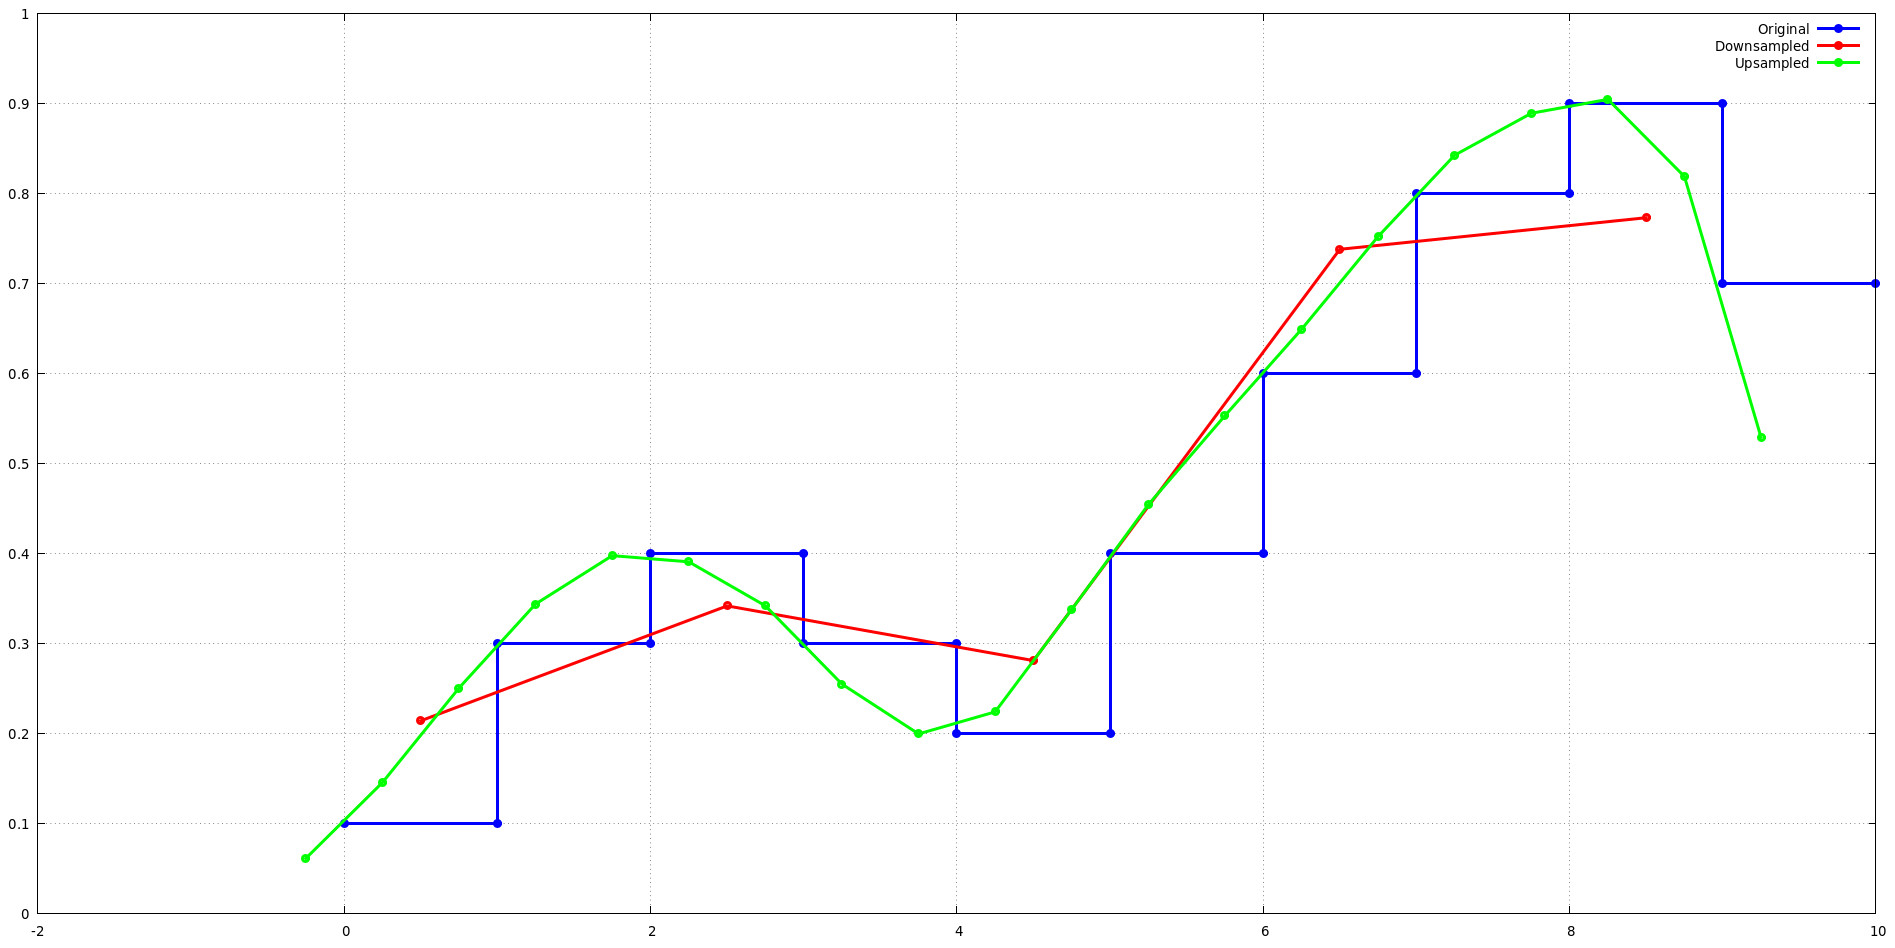
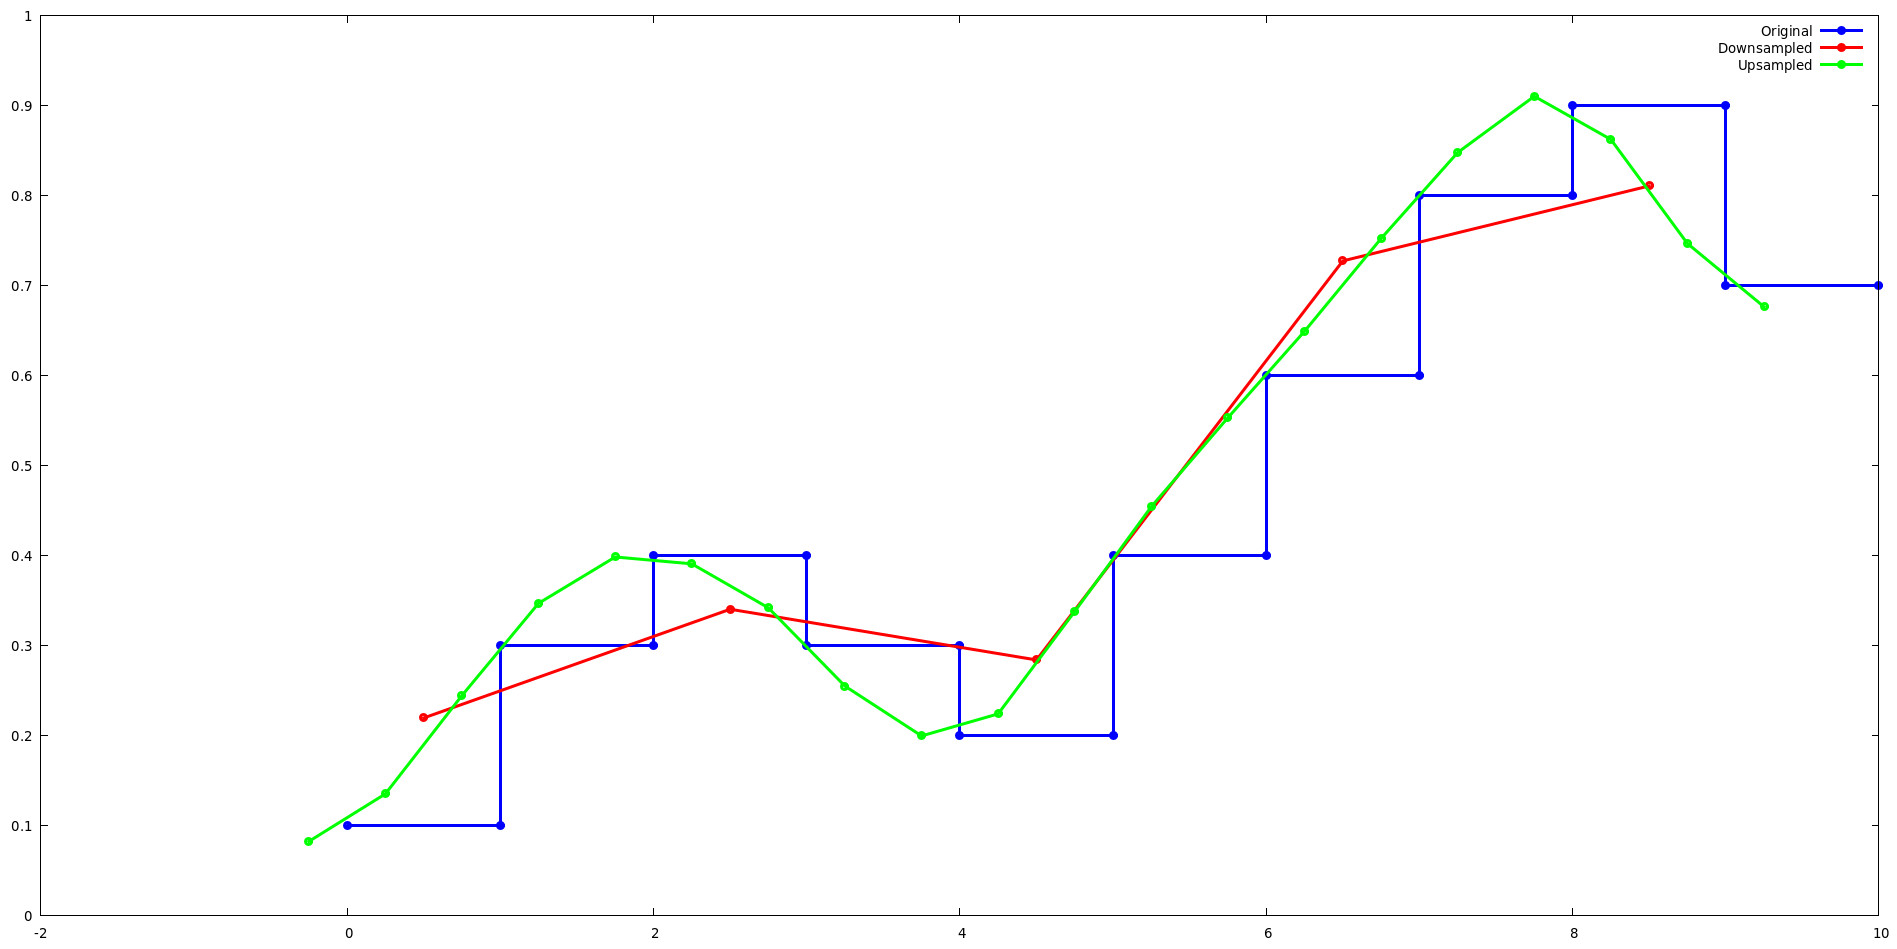
default to clamp-to-edge outside bounds

diff --git a/lanczos-test.c b/lanczos-test.c
@@ -25,6 +25,10 @@
 #include <stdio.h>
 #include <stdlib.h>
 
+// clamp-to-edge outside bounds or
+// zero outside bounds
+#define LANCZOS_USE_CLAMP_TO_EDGE
+
 /***********************************************************
 * private                                                  *
 ***********************************************************/
@@ -59,10 +63,23 @@ static double S1(int i)
 		0.4, 0.6, 0.8, 0.9, 0.7,
 	};
 
-	if((i < 0) || (i >= 10))
-	{
-		return 0.0;
-	}
+	#ifdef LANCZOS_USE_CLAMP_TO_EDGE
+		// clamp-to-edge outside bounds
+		if(i < 0)
+		{
+			i = 0;
+		}
+		else if(i >= 10)
+		{
+			i = 9;
+		}
+	#else
+		// zero outside bounds
+		if((i < 0) || (i >= 10))
+		{
+			return 0.0;
+		}
+	#endif
 
 	return s1[i];
 }

diff --git a/readme.md b/readme.md
@@ -146,37 +146,37 @@ that the outputs for L() repeat for j={0,2} and j={1,3}.
 
 	upsample n1=10, n2=20
 	j=0, x=-0.250000
-	i=-2, L(-2.750000)=0.007356, S1(-3.000000)=0.000000
-	i=-1, L(-1.750000)=-0.067791, S1(-2.000000)=0.000000
-	i=0, L(-0.750000)=0.270190, S1(-1.000000)=0.000000
+	i=-2, L(-2.750000)=0.007356, S1(-3.000000)=0.100000
+	i=-1, L(-1.750000)=-0.067791, S1(-2.000000)=0.100000
+	i=0, L(-0.750000)=0.270190, S1(-1.000000)=0.100000
 	i=1, L(0.250000)=0.890067, S1(0.000000)=0.100000
 	i=2, L(1.250000)=-0.132871, S1(1.000000)=0.300000
 	i=3, L(2.250000)=0.030021, S1(2.000000)=0.400000
-	s2=0.061154, s2/w=0.061340, w=0.996972
+	s2=0.082129, s2/w=0.082379, w=0.996972
 	j=1, x=0.250000
-	i=-2, L(-2.250000)=0.030021, S1(-2.000000)=0.000000
-	i=-1, L(-1.250000)=-0.132871, S1(-1.000000)=0.000000
+	i=-2, L(-2.250000)=0.030021, S1(-2.000000)=0.100000
+	i=-1, L(-1.250000)=-0.132871, S1(-1.000000)=0.100000
 	i=0, L(-0.250000)=0.890067, S1(0.000000)=0.100000
 	i=1, L(0.750000)=0.270190, S1(1.000000)=0.300000
 	i=2, L(1.750000)=-0.067791, S1(2.000000)=0.400000
 	i=3, L(2.750000)=0.007356, S1(3.000000)=0.300000
-	s2=0.145154, s2/w=0.145595, w=0.996972
+	s2=0.134869, s2/w=0.135279, w=0.996972
 	j=2, x=0.750000
-	i=-2, L(-2.750000)=0.007356, S1(-2.000000)=0.000000
-	i=-1, L(-1.750000)=-0.067791, S1(-1.000000)=0.000000
+	i=-2, L(-2.750000)=0.007356, S1(-2.000000)=0.100000
+	i=-1, L(-1.750000)=-0.067791, S1(-1.000000)=0.100000
 	i=0, L(-0.750000)=0.270190, S1(0.000000)=0.100000
 	i=1, L(0.250000)=0.890067, S1(1.000000)=0.300000
 	i=2, L(1.250000)=-0.132871, S1(2.000000)=0.400000
 	i=3, L(2.250000)=0.030021, S1(3.000000)=0.300000
-	s2=0.249897, s2/w=0.250656, w=0.996972
+	s2=0.243853, s2/w=0.244594, w=0.996972
 	j=3, x=1.250000
-	i=-2, L(-2.250000)=0.030021, S1(-1.000000)=0.000000
+	i=-2, L(-2.250000)=0.030021, S1(-1.000000)=0.100000
 	i=-1, L(-1.250000)=-0.132871, S1(0.000000)=0.100000
 	i=0, L(-0.250000)=0.890067, S1(1.000000)=0.300000
 	i=1, L(0.750000)=0.270190, S1(2.000000)=0.400000
 	i=2, L(1.750000)=-0.067791, S1(3.000000)=0.300000
 	i=3, L(2.750000)=0.007356, S1(4.000000)=0.200000
-	s2=0.342943, s2/w=0.343984, w=0.996972
+	s2=0.345945, s2/w=0.346996, w=0.996972
 
 When downsampling by a power-of-two, the Lanczos kernel
 becomes independent of x since (x - floor(x)) becomes a
@@ -187,11 +187,11 @@ repeat for each j.
 
 	downsample n1=10, n2=5
 	j=0, x=0.500000
-	i=-5, L(-2.750000)=0.007356, S1(-5.000000)=0.000000
-	i=-4, L(-2.250000)=0.030021, S1(-4.000000)=0.000000
-	i=-3, L(-1.750000)=-0.067791, S1(-3.000000)=0.000000
-	i=-2, L(-1.250000)=-0.132871, S1(-2.000000)=0.000000
-	i=-1, L(-0.750000)=0.270190, S1(-1.000000)=0.000000
+	i=-5, L(-2.750000)=0.007356, S1(-5.000000)=0.100000
+	i=-4, L(-2.250000)=0.030021, S1(-4.000000)=0.100000
+	i=-3, L(-1.750000)=-0.067791, S1(-3.000000)=0.100000
+	i=-2, L(-1.250000)=-0.132871, S1(-2.000000)=0.100000
+	i=-1, L(-0.750000)=0.270190, S1(-1.000000)=0.100000
 	i=0, L(-0.250000)=0.890067, S1(0.000000)=0.100000
 	i=1, L(0.250000)=0.890067, S1(1.000000)=0.300000
 	i=2, L(0.750000)=0.270190, S1(2.000000)=0.400000
@@ -199,11 +199,11 @@ repeat for each j.
 	i=4, L(1.750000)=-0.067791, S1(4.000000)=0.200000
 	i=5, L(2.250000)=0.030021, S1(5.000000)=0.400000
 	i=6, L(2.750000)=0.007356, S1(6.000000)=0.600000
-	s2=0.427105, s2/w=0.214201, w=1.993943
+	s2=0.437796, s2/w=0.219563, w=1.993943
 	j=1, x=2.500000
-	i=-5, L(-2.750000)=0.007356, S1(-3.000000)=0.000000
-	i=-4, L(-2.250000)=0.030021, S1(-2.000000)=0.000000
-	i=-3, L(-1.750000)=-0.067791, S1(-1.000000)=0.000000
+	i=-5, L(-2.750000)=0.007356, S1(-3.000000)=0.100000
+	i=-4, L(-2.250000)=0.030021, S1(-2.000000)=0.100000
+	i=-3, L(-1.750000)=-0.067791, S1(-1.000000)=0.100000
 	i=-2, L(-1.250000)=-0.132871, S1(0.000000)=0.100000
 	i=-1, L(-0.750000)=0.270190, S1(1.000000)=0.300000
 	i=0, L(-0.250000)=0.890067, S1(2.000000)=0.400000
@@ -213,7 +213,7 @@ repeat for each j.
 	i=4, L(1.750000)=-0.067791, S1(6.000000)=0.600000
 	i=5, L(2.250000)=0.030021, S1(7.000000)=0.800000
 	i=6, L(2.750000)=0.007356, S1(8.000000)=0.900000
-	s2=0.681669, s2/w=0.341870, w=1.993943
+	s2=0.678627, s2/w=0.340344, w=1.993943
 
 As a result, the Lanczos kernel may be precomputed for these
 cases to eliminate the expensive sinc function computation
